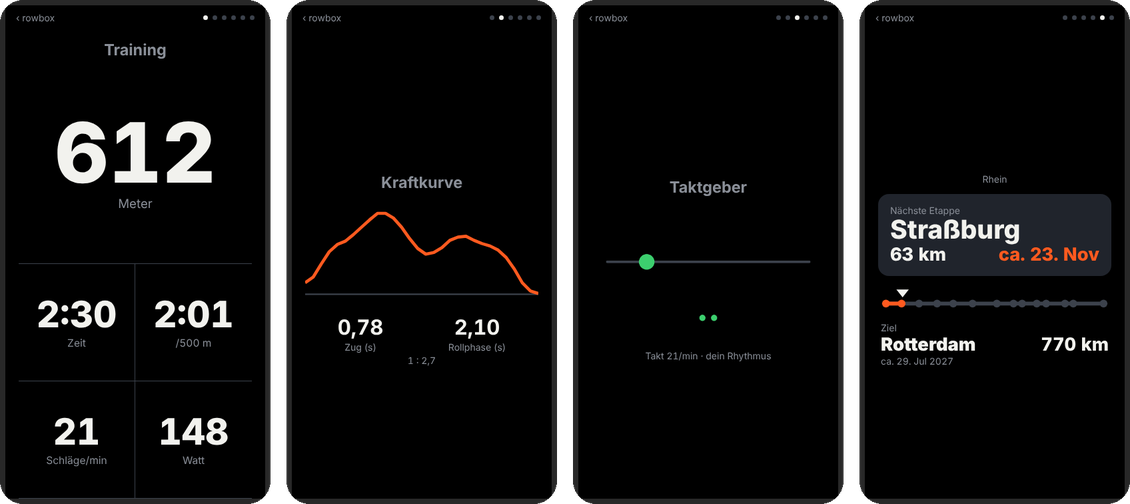
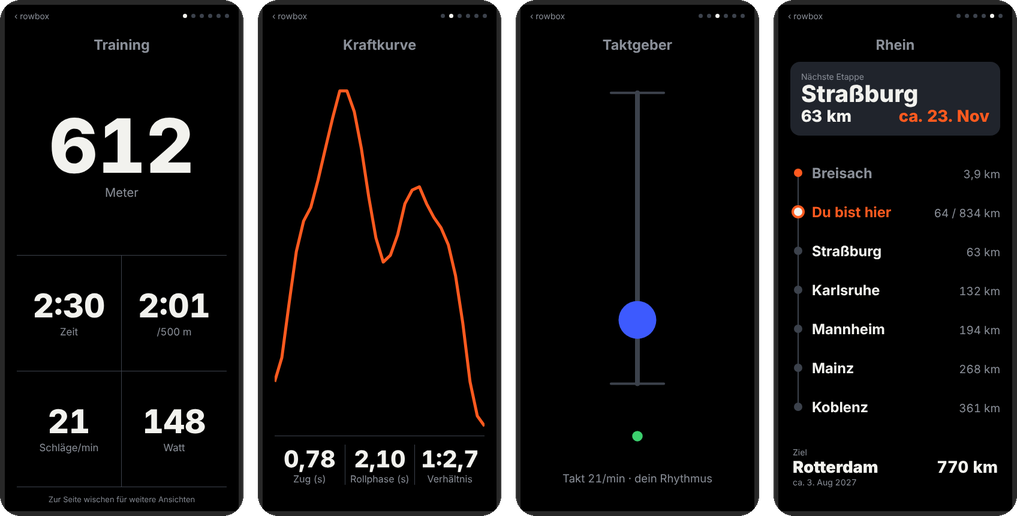
Phone display: all screens laid out for portrait

diff --git a/rowportal.py b/rowportal.py
@@ -702,7 +702,27 @@ svg,canvas{width:100%;display:block;margin-top:18px}
 .st li span{margin-left:auto;color:var(--dim);font-weight:400;font-size:clamp(14px,4.4vw,20px)}
 .st i{width:16px;height:16px;border-radius:50%;background:var(--line);flex:none}
 .st i.ok{background:var(--ok)}.st i.bad{background:#e5484d}.st i.wait{background:#3d5afe}
-#training .sc{height:100%;display:flex;flex-direction:column;max-width:520px}
+.sc.full{height:100%;display:flex;flex-direction:column;max-width:520px}
+.grow{flex:1;min-height:0;position:relative;margin-top:12px}
+.grow>svg,.grow>canvas{position:absolute;inset:0;width:100%;height:100%;margin:0}
+.over{position:absolute;inset:0;display:flex;align-items:center;justify-content:center;color:var(--dim);
+padding:24px;font-size:clamp(15px,2.2vh,20px);line-height:1.4}
+.bar3{display:grid;grid-template-columns:repeat(3,1fr);border-top:1px solid var(--line);padding:14px 0 4px}
+.bar3>div+div{border-left:1px solid var(--line)}
+.bar3 b{display:block;font-size:clamp(28px,min(10vw,6vh),58px);font-weight:800}
+.bar3 span{color:var(--dim);font-size:clamp(12px,1.9vh,17px)}
+.foot{color:var(--dim);font-size:clamp(14px,2.2vh,19px);padding:12px 0 4px}
+.route{position:relative;z-index:0;list-style:none;margin:0;padding:0 0 0 6px;height:100%;display:flex;flex-direction:column;justify-content:space-evenly;text-align:left}
+.route li{position:relative;padding-left:30px;display:flex;justify-content:space-between;align-items:baseline;
+font-size:clamp(17px,2.8vh,26px);font-weight:700}
+.route li::before{content:"";position:absolute;left:0;top:50%;width:14px;height:14px;margin-top:-7px;border-radius:50%;background:var(--line)}
+.route li::after{content:"";position:absolute;left:6px;top:50%;height:calc(100% + 40px);width:2px;background:var(--line);z-index:-1}
+.route li:last-child::after{display:none}
+.route li span{color:var(--dim);font-weight:400;font-size:.8em}
+.route li.past{color:var(--dim)}.route li.past::before{background:var(--sig)}
+.route li.here{color:var(--sig)}.route li.here::before{background:var(--fg);box-shadow:0 0 0 4px var(--sig)}
+.st.full{flex:1;display:flex;flex-direction:column;justify-content:space-evenly;margin:0}
+.st.full li{font-size:clamp(22px,min(7vw,4.2vh),36px)}
 .hero{flex:1;display:flex;flex-direction:column;justify-content:center;min-height:0}
 .hero .huge{font-size:clamp(84px,min(32vw,20vh),210px);margin:0}
 .hero .sub{font-size:clamp(15px,2.4vh,22px)}
@@ -734,7 +754,9 @@ try{const id=localStorage.getItem('rowbox-screen');const i=slides.findIndex(x=>x
  if(i>0)requestAnimationFrame(()=>{deck.scrollLeft=i*deck.clientWidth;mark()})}catch(e){}
 mark();setTimeout(()=>$('hint').style.opacity=0,4000);
 // --- 1 Hz: Trainingswerte, Kraftkurve, Status ---
-let S={};
+let S={},lastN=null;const hist=[];
+function fit(cv){const r=cv.getBoundingClientRect(),d=window.devicePixelRatio||1,w=Math.round(r.width*d),h=Math.round(r.height*d);
+ if(w&&h&&(cv.width!=w||cv.height!=h)){cv.width=w;cv.height=h}return d}
 async function live(){
  try{const r=await fetch('/live.json',{cache:'no-store'});
   if(r.status==401){location.href='/login?next=/anzeige';return}
@@ -747,10 +769,13 @@ async function live(){
  $('tr-pace').textContent=S.pace?mmss(S.pace):'–';
  $('tr-pause').style.display=pause?'':'none';$('tr-row').style.display=pause?'none':'';
  if(pause)$('tr-left').textContent=mmss(S.pause_left);
- if(S.curve){$('fc-path').setAttribute('points',S.curve.map((v,i)=>(i*300/(S.curve.length-1)).toFixed(1)+','+(112-v*1.05).toFixed(1)).join(' '));
+ if(S.curve&&S.stroke_n!==lastN){lastN=S.stroke_n;hist.push(S.curve);if(hist.length>5)hist.shift();
+  $('fc-g').innerHTML=hist.map((c,i)=>{const top=i==hist.length-1;return '<polyline fill="none" stroke-linejoin="round" vector-effect="non-scaling-stroke" points="'+
+   c.map((v,k)=>(k*300/(c.length-1)).toFixed(1)+','+(118-v*1.15).toFixed(1)).join(' ')+'" stroke="'+(top?'#ff5a1f':'#8a8f98')+
+   '" stroke-width="'+(top?5:2)+'" opacity="'+(top?1:0.15+0.08*i)+'"/>'}).join('');
   $('fc-none').style.display='none'}
  $('fc-d').textContent=num(S.drive,2);$('fc-r').textContent=num(S.recover,2);
- $('fc-q').textContent=S.drive&&S.recover?'1 : '+num(S.recover/S.drive,1):'';
+ $('fc-q').textContent=S.drive&&S.recover?'1:'+num(S.recover/S.drive,1):'–';
  const st=(id,cls,txt)=>{$(id).className=cls;$(id+'t').textContent=txt};
  const fresh=!!S.fresh;
  st('s-br',fresh?'ok':'bad',fresh?T.runs:T.off);
@@ -766,11 +791,13 @@ async function slow(){
   $('jr-river').textContent=g.river;$('jr-next').textContent=g.done?g.goal:g.next;
   $('jr-nkm').textContent=g.done?T.done:g.next_left;$('jr-neta').textContent=g.done?'':g.eta_next;
   $('jr-goal').textContent=g.goal;$('jr-gkm').textContent=g.left+' km';$('jr-geta').textContent=g.eta_goal;
-  const w=300,x=k=>10+(w-20)*k/g.total,y=20;
-  $('jr-line').innerHTML='<line x1="10" y1="'+y+'" x2="'+(w-10)+'" y2="'+y+'" stroke="#3c424c" stroke-width="5" stroke-linecap="round"/>'+
-   '<line x1="10" y1="'+y+'" x2="'+x(g.km)+'" y2="'+y+'" stroke="#ff5a1f" stroke-width="5" stroke-linecap="round"/>'+
-   g.stops.map(s=>'<circle cx="'+x(s[0])+'" cy="'+y+'" r="5" fill="'+(s[0]<=g.km?'#ff5a1f':'#3c424c')+'"/>').join('')+
-   '<polygon points="'+(x(g.km)-8)+',2 '+(x(g.km)+8)+',2 '+x(g.km)+',12" fill="#f2f2ee"/>';
+  const kmf=d=>d.toLocaleString(T.locale,{maximumFractionDigits:d<10?1:0});
+  const past=g.stops.filter(s=>s[0]<=g.km),ahead=g.stops.filter(s=>s[0]>g.km);
+  const esc=t=>String(t).replace(/[&<>"]/g,c=>({'&':'&amp;','<':'&lt;','>':'&gt;','"':'&quot;'}[c]));
+  let li=past.slice(-1).map(s=>'<li class="past">'+esc(s[1])+'<span>'+kmf(g.km-s[0])+' km</span></li>');
+  if(!g.done)li.push('<li class="here">'+esc(T.here)+'<span>'+kmf(g.km)+' / '+kmf(g.total)+' km</span></li>');
+  li=li.concat(ahead.slice(0,5).map(s=>'<li>'+esc(s[1])+'<span>'+kmf(s[0]-g.km)+' km</span></li>'));
+  $('jr-route').innerHTML=li.join('');
  }catch(e){}
 }
 // --- 10 Hz nur fuer Taktgeber und Live-Kurve ---
@@ -789,25 +816,28 @@ function pacer(){
   else{const err=((P.phase-anchor+0.5)%1+1)%1-0.5;P.marks.push(Math.abs(err)<0.12);if(P.marks.length>8)P.marks.shift();
    if(!T.spm)P.phase=Math.abs(err)>0.3?anchor:((P.phase-0.3*err)%1+1)%1}
   P.last=c}
- const cv=$('pc'),x=cv.getContext('2d'),w=cv.width,h=cv.height;x.clearRect(0,0,w,h);
- const y=h*0.38,x0=40,x1=w-40;x.strokeStyle='#3c424c';x.lineWidth=6;x.lineCap='round';
- x.beginPath();x.moveTo(x0,y);x.lineTo(x1,y);x.stroke();
+ const cv=$('pc'),d=fit(cv),x=cv.getContext('2d'),w=cv.width,h=cv.height;x.clearRect(0,0,w,h);
+ // Rollsitz senkrecht: unten = Auslage (Zuganfang), oben = Endzug
+ const cx=w/2,y0=h*0.80,y1=h*0.08,r=Math.min(w*0.09,h*0.05);
+ x.strokeStyle='#3c424c';x.lineWidth=8*d;x.lineCap='round';x.beginPath();x.moveTo(cx,y0);x.lineTo(cx,y1);x.stroke();
+ x.lineWidth=4*d;[y0,y1].forEach(yy=>{x.beginPath();x.moveTo(cx-r*1.4,yy);x.lineTo(cx+r*1.4,yy);x.stroke()});
  const D=1/3,p=P.phase,seat=p<D?0.5-0.5*Math.cos(p/D*Math.PI):1-(0.5-0.5*Math.cos((p-D)/(1-D)*Math.PI));
- x.fillStyle=p<D?'#3ccf6e':'#3d5afe';x.beginPath();x.arc(x0+seat*(x1-x0),y,20,0,7);x.fill();
+ x.fillStyle=p<D?'#3ccf6e':'#3d5afe';x.beginPath();x.arc(cx,y0+seat*(y1-y0),r,0,7);x.fill();
+ const mr=Math.min(w/40,h*0.018),gap=mr*3.2;
  P.marks.forEach((ok,i)=>{x.fillStyle=ok?'#3ccf6e':'#ff5a1f';x.beginPath();
-  x.arc(w/2+(i-(P.marks.length-1)/2)*30,h*0.78,8,0,7);x.fill()});
+  x.arc(cx+(i-(P.marks.length-1)/2)*gap,h*0.93,mr,0,7);x.fill()});
  const spm=P.period?Math.round(60/P.period):0;
  $('pc-txt').textContent=(T.spm?T.fixed:T.own).replace('{spm}',spm);
  $('pc-start').style.display=P.started?'none':'';
 }
 function wave(){
- const cv=$('wv'),x=cv.getContext('2d'),w=cv.width,h=cv.height;x.clearRect(0,0,w,h);
+ const cv=$('wv'),d=fit(cv),x=cv.getContext('2d'),w=cv.width,h=cv.height;x.clearRect(0,0,w,h);
  const raw=W.w||[],sm=raw.map((_,i)=>{const a=raw.slice(Math.max(0,i-3),i+1);return a.reduce((p,q)=>p+q,0)/a.length});
  const sc=Math.max(600,Math.max(0,...sm)*1.1),age=Date.now()/1000-(W.ts||0),step=w/240;
- x.strokeStyle='#2d4632';x.lineWidth=2;
+ x.strokeStyle='#2d4632';x.lineWidth=2*d;
  for(const ago of W.catch_ago||[]){const px=w-(ago+age)/0.025*step;if(px>=0){x.beginPath();x.moveTo(px,8);x.lineTo(px,h-6);x.stroke()}}
  x.strokeStyle='#32373e';x.beginPath();x.moveTo(0,h-6);x.lineTo(w,h-6);x.stroke();
- if(sm.length>1){x.strokeStyle='#e0662b';x.lineWidth=4;x.lineJoin='round';x.beginPath();
+ if(sm.length>1){x.strokeStyle='#e0662b';x.lineWidth=4*d;x.lineJoin='round';x.beginPath();
   sm.forEach((v,i)=>{const px=w-(sm.length-i)*step,py=h-6-v/sc*(h-16);i?x.lineTo(px,py):x.moveTo(px,py)});x.stroke()}
 }
 async function fast(){
@@ -826,12 +856,12 @@ def screen_page():
     texts = {"locale": "de-DE" if lang == "de" else "en-GB", "dec": "," if lang == "de" else ".",
              "training": L("Training"), "pause": L("Pause"), "runs": L("läuft"), "off": L("aus"),
              "conn": L("verbunden"), "cable": L("Kabel?"), "waits": L("wartet"), "fw": L("Firmware"),
-             "done": L("Ziel erreicht"), "spm": int(conf.get("pacer_spm") or 0),
+             "done": L("Ziel erreicht"), "here": L("Du bist hier"), "spm": int(conf.get("pacer_spm") or 0),
              "own": L("Takt {spm}/min · dein Rhythmus", spm="{spm}"), "fixed": L("Takt {spm}/min · fest", spm="{spm}")}
-    journey = f"""<section class="slide" id="journey"><div class="sc"><div class="sub" id="jr-river"></div>
+    journey = f"""<section class="slide" id="journey"><div class="sc full"><div class="t" id="jr-river">{L("Reise")}</div>
 <div class="navc"><div class="lab">{L("Nächste Etappe")}</div><div class="big" id="jr-next">…</div>
 <div class="r2"><span><span id="jr-nkm"></span> km</span><span class="warn" id="jr-neta"></span></div></div>
-<svg viewBox="0 0 300 30" id="jr-line"></svg>
+<div class="grow"><ul class="route" id="jr-route"></ul></div>
 <div class="goal"><div class="lab">{L("Ziel")}</div><div class="r2"><b id="jr-goal"></b><span id="jr-gkm"></span></div>
 <div class="lab" id="jr-geta"></div></div></div></section>""" if game else ""
     body = f"""<!doctype html><html lang="{lang}"><head><meta charset="utf-8">
@@ -840,26 +870,26 @@ def screen_page():
 <title>Rowbox – {L("Anzeige")}</title><style>{SCREEN_CSS}</style></head><body>
 <div class="top"><a href="/live">‹ rowbox</a><div class="dots" id="dots"></div></div>
 <main class="deck" id="deck">
-<section class="slide" id="training"><div class="sc"><div class="t" id="tr-t">{L("Training")}</div>
+<section class="slide" id="training"><div class="sc full"><div class="t" id="tr-t">{L("Training")}</div>
 <div class="hero"><div class="huge" id="tr-dist">0</div><div class="sub">{L("Meter")}</div></div>
 <div class="tiles" id="tr-row"><div><b id="tr-time">0:00</b><span>{L("Zeit")}</span></div>
 <div><b id="tr-pace">–</b><span>/500 m</span></div>
 <div><b id="tr-spm">0</b><span>{L("Schläge/min")}</span></div><div><b id="tr-w">0</b><span>{L("Watt")}</span></div></div>
 <div class="pausebox" id="tr-pause" style="display:none"><div class="lab">{L("Automatisches Ende in")}</div>
 <div class="big warn" id="tr-left"></div></div></div></section>
-<section class="slide" id="force"><div class="sc"><div class="t">{L("Kraftkurve")}</div>
-<svg viewBox="0 -4 300 120"><line x1="0" y1="112" x2="300" y2="112" stroke="#3c424c" stroke-width="2"/>
-<polyline id="fc-path" fill="none" stroke="#ff5a1f" stroke-width="4" stroke-linejoin="round" points=""/></svg>
-<div class="sub" id="fc-none">{L("Noch keine Kraftkurve. Sie erscheint nach dem ersten Zug.")}</div>
-<div class="row3"><div><b id="fc-d">–</b><span>{L("Zug (s)")}</span></div><div><b id="fc-r">–</b><span>{L("Rollphase (s)")}</span></div></div>
-<div class="sub" id="fc-q"></div></div></section>
-<section class="slide" id="pacer"><div class="sc"><div class="t">{L("Taktgeber")}</div>
-<canvas id="pc" width="600" height="360"></canvas><div class="sub" id="pc-start">{L("Startet mit dem ersten Zug")}</div>
-<div class="sub" id="pc-txt"></div></div></section>
-<section class="slide" id="wave"><div class="sc"><div class="t">{L("Live-Kurve")}</div>
-<canvas id="wv" width="600" height="420"></canvas></div></section>
+<section class="slide" id="force"><div class="sc full"><div class="t">{L("Kraftkurve")}</div>
+<div class="grow"><svg viewBox="0 -6 300 126" preserveAspectRatio="none">
+<g id="fc-g"></g></svg>
+<div class="over" id="fc-none">{L("Noch keine Kraftkurve. Sie erscheint nach dem ersten Zug.")}</div></div>
+<div class="bar3"><div><b id="fc-d">–</b><span>{L("Zug (s)")}</span></div><div><b id="fc-r">–</b><span>{L("Rollphase (s)")}</span></div>
+<div><b id="fc-q">–</b><span>{L("Verhältnis")}</span></div></div></div></section>
+<section class="slide" id="pacer"><div class="sc full"><div class="t">{L("Taktgeber")}</div>
+<div class="grow"><canvas id="pc"></canvas><div class="over" id="pc-start" style="align-items:flex-start">{L("Startet mit dem ersten Zug")}</div></div>
+<div class="foot" id="pc-txt"></div></div></section>
+<section class="slide" id="wave"><div class="sc full"><div class="t">{L("Live-Kurve")}</div>
+<div class="grow"><canvas id="wv"></canvas></div></div></section>
 {journey}
-<section class="slide" id="status"><div class="sc"><div class="t">Rowbox</div><ul class="st">
+<section class="slide" id="status"><div class="sc full"><div class="t">Rowbox</div><ul class="st full">
 <li><i id="s-br"></i>{L("Brücke")}<span id="s-brt"></span></li><li><i id="s-s4"></i>S4<span id="s-s4t"></span></li>
 <li><i id="s-app"></i>App<span id="s-appt"></span></li><li><i id="s-bat"></i>{L("Akku")}<span id="s-batt"></span></li></ul></div></section>
 </main><div class="hint" id="hint">{L("Zur Seite wischen für weitere Ansichten")}</div>

diff --git a/CHANGELOG.md b/CHANGELOG.md
@@ -2,7 +2,7 @@
 
 ## Unreleased
 - Lite (no battery: `setup.sh --no-pisugar`) and Ultralight (no display, no battery: `setup.sh --no-display --no-pisugar`) versions; without display, setup prints the portal password and the portal hides display settings (experimental)
-- Phone as display: `/display` (or `/anzeige`) shows the box's screens full-screen on the phone, swipeable: training, force curve, pacer, live wave, journey, status; linked from the Live page and in the menu
+- Phone as display: `/display` (or `/anzeige`) shows the box's screens full-screen on the phone, laid out for portrait and swipeable: training, force curve (last five strokes), pacer (vertical seat), live wave, journey (upcoming stops as a vertical route), status; linked from the Live page and in the menu
 - Wi-Fi messages in the portal no longer refer to the display
 - README: compatibility tables for apps and rowing machines; corrected S4 firmware info (USB monitors run 2.01/2.03/2.1; check with advanced ×9, OK)
 
